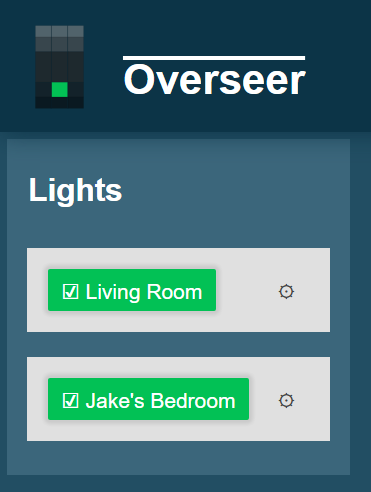
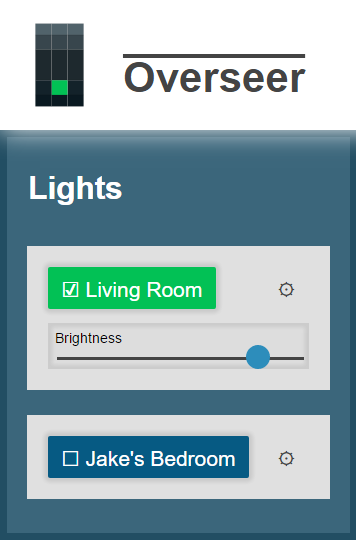
change the header to white

diff --git a/scss/style.scss b/scss/style.scss
@@ -14,8 +14,8 @@ header {
     margin: 0;
     padding-top: 2rem;
     position: relative;
-    background: #0c3447;
-    box-shadow: 0 0 3rem 0 #0c3447;
+    background: white;
+    box-shadow: 0 0 3rem 0 white;
 
     svg {
         zoom: 0.3;
@@ -25,7 +25,7 @@ header {
     h1 {
         display: inline-block;
         font-size: 3rem;
-        color: white;
+        color: $darkGray;
         position: relative;
         text-decoration: overline;
     }
@@ -99,11 +99,11 @@ li {
     &::-webkit-slider-thumb {
         -webkit-appearance: none;
         cursor: pointer;
-        height: 2rem;
-        width: 2rem;
+        height: 1.75rem;
+        width: 1.75rem;
         background: $blue;
         border-radius: 50%;
-        margin-top: -1rem;
+        margin-top: -0.875rem;
     }
 
     &:focus {
